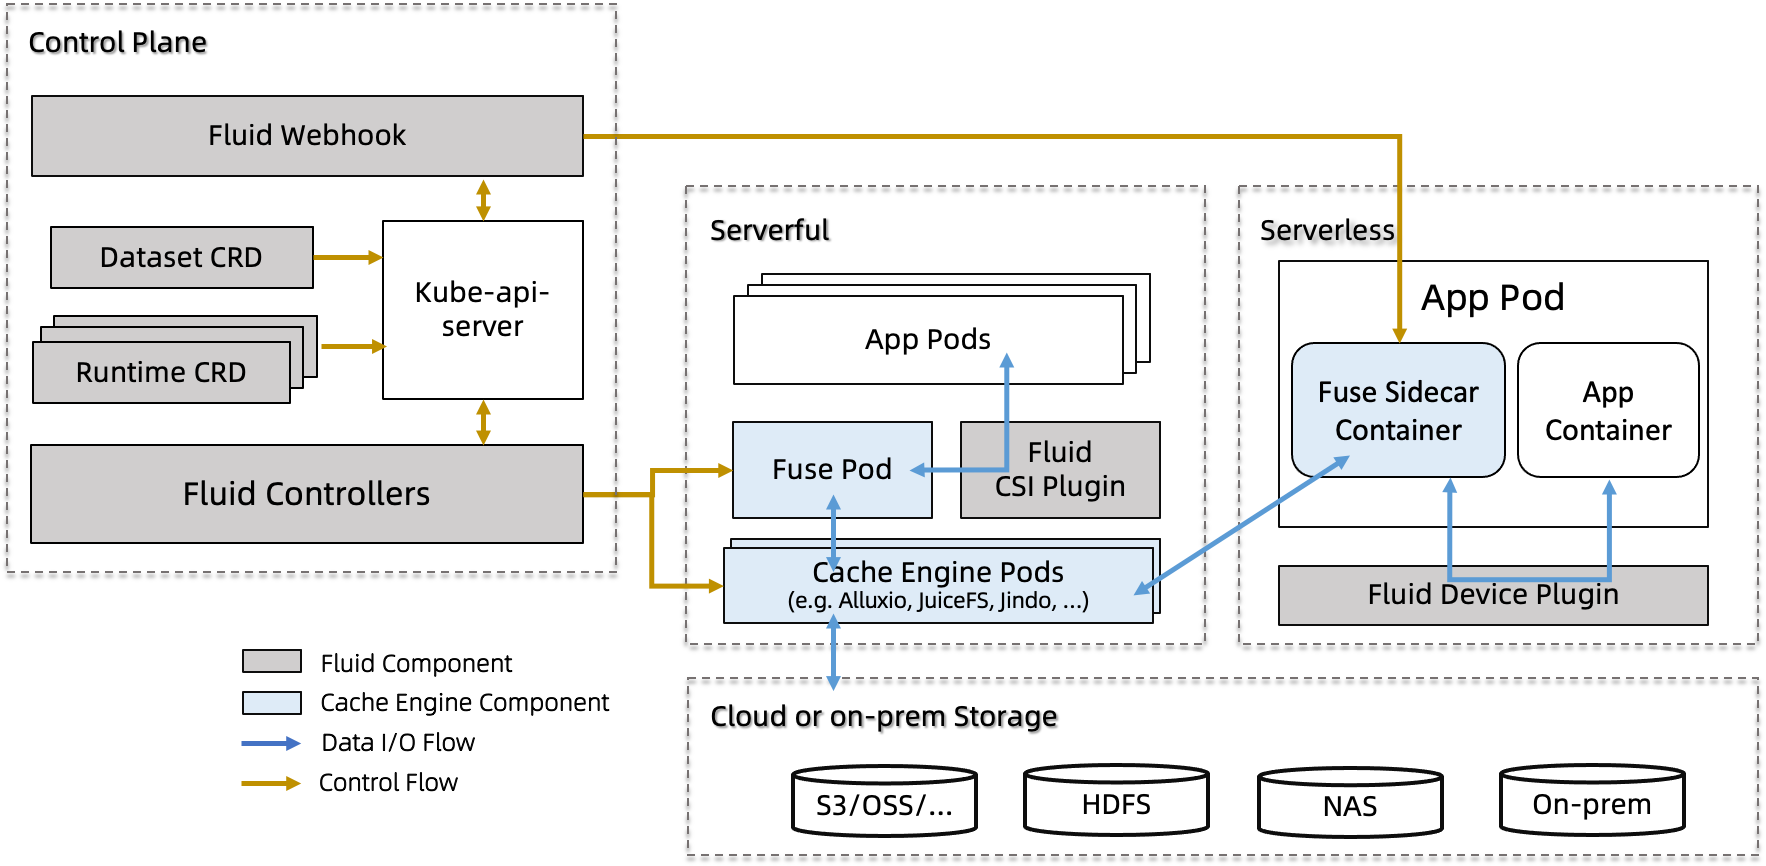
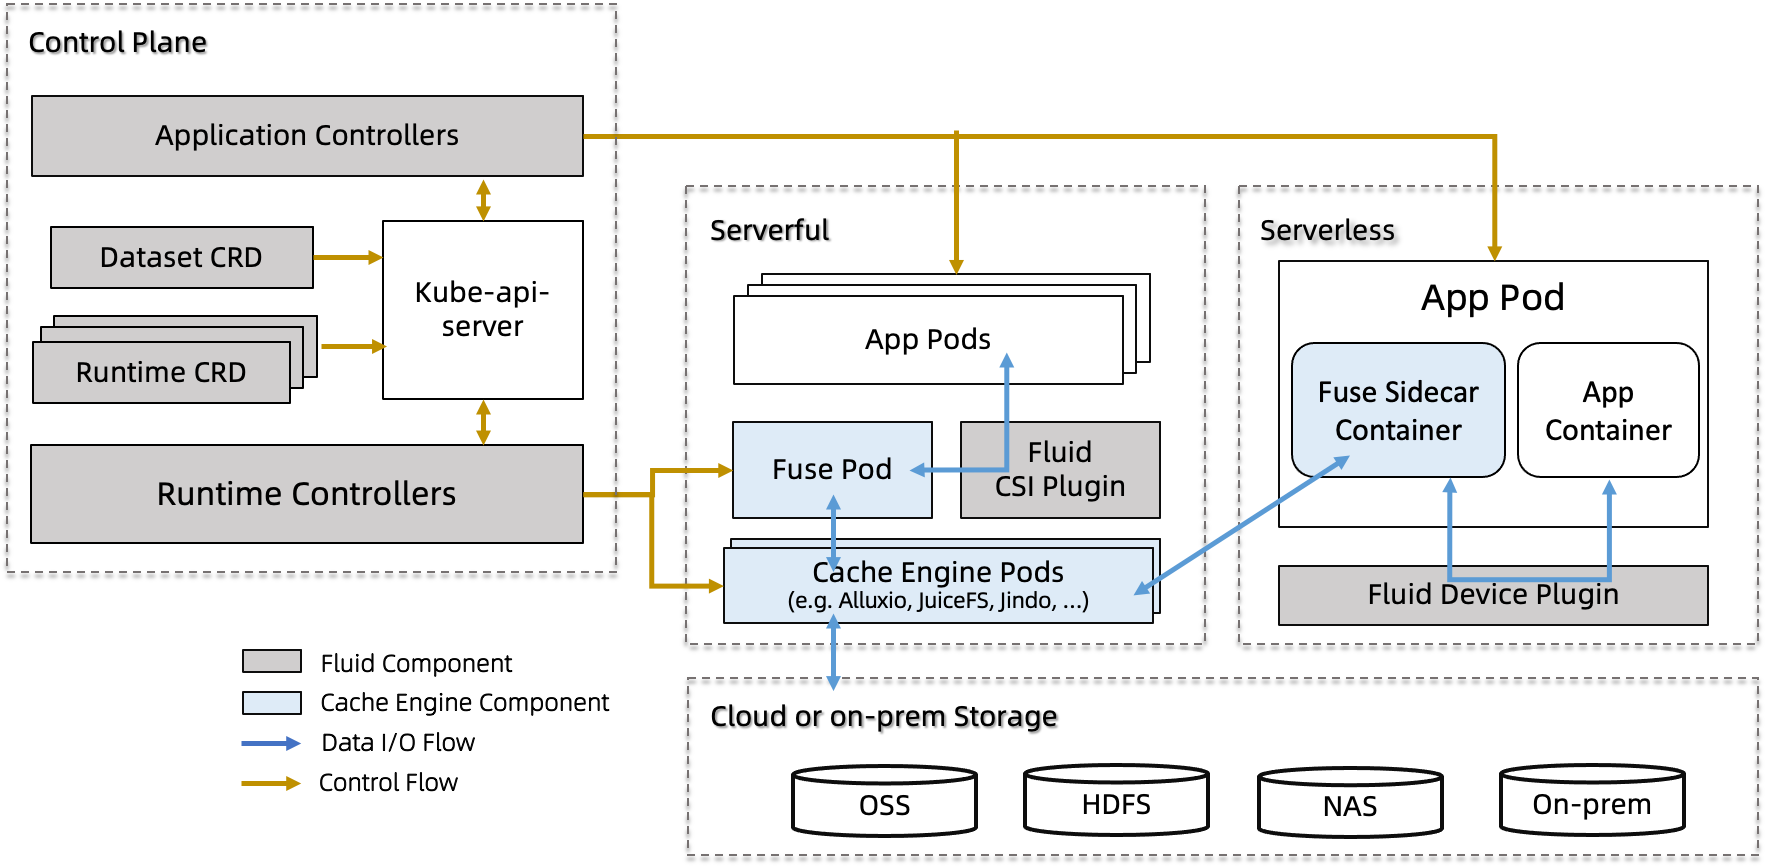
Update concept docs, To #43000843

diff --git a/docs/zh/core-concepts/architecture.md b/docs/zh/core-concepts/architecture.md
@@ -5,7 +5,16 @@ Fluid的整体架构：
 ![](../../../static/concepts/architecture.png)
 
 
-Fluid有两个核心概念：Dataset和Runtime。为了支撑这两个概念，Fluid的架构被逻辑地划分为控制平面和数据平面。控制平面包括Dataset Controller，负责管理Dataset的通用操作；Runtime Controller，负责管理各种Runtime的生命周期；Scheduler plugin负责调度使用Dataset的Pod。
+Fluid有两个核心概念：Dataset和Runtime。为了支持这两个概念，Fluid的架构被逻辑地划分为控制平面和数据平面。
+
+
+
+
+
+
+
+
+Fluid控制平面包括Dataset Controller，负责管理Dataset的通用操作；Runtime Controller，负责管理各种Runtime的生命周期；Scheduler plugin负责调度使用Dataset的Pod。
 
 在数据平面上，我们通过CSI插件支持运行在ECS上的Pod，通过FUSE sidecar支持运行在ECI上的Pod。开发人员就不需要担心数据平面的实现。他们只需按照Runtime的开发指南集成Fluid即可。值得注意的是，Fluid也实现了CSI插件接口，但是与传统的CSI插件相比，有两个主要区别：1）FUSE客户端实现了容器化，以Pod形式运行，使其具有更好的可观测性，并可以单独设置资源配额；2）FUSE客户端与CSI插件完全解耦，不再需要将FUSE客户端构建到CSI插件容器镜像中。这使得FUSE客户端和CSI插件可以各自独立地演进。
 
